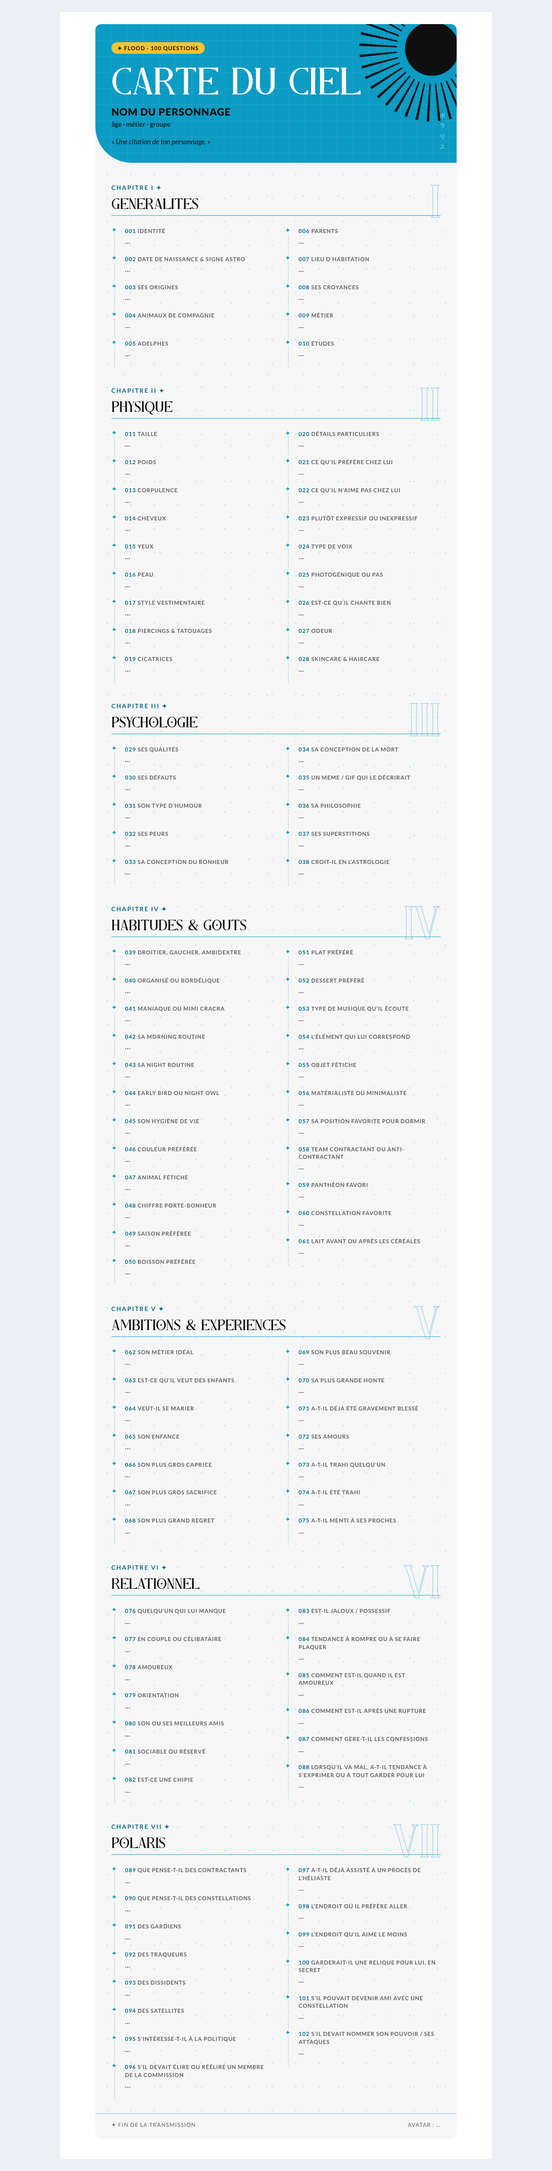
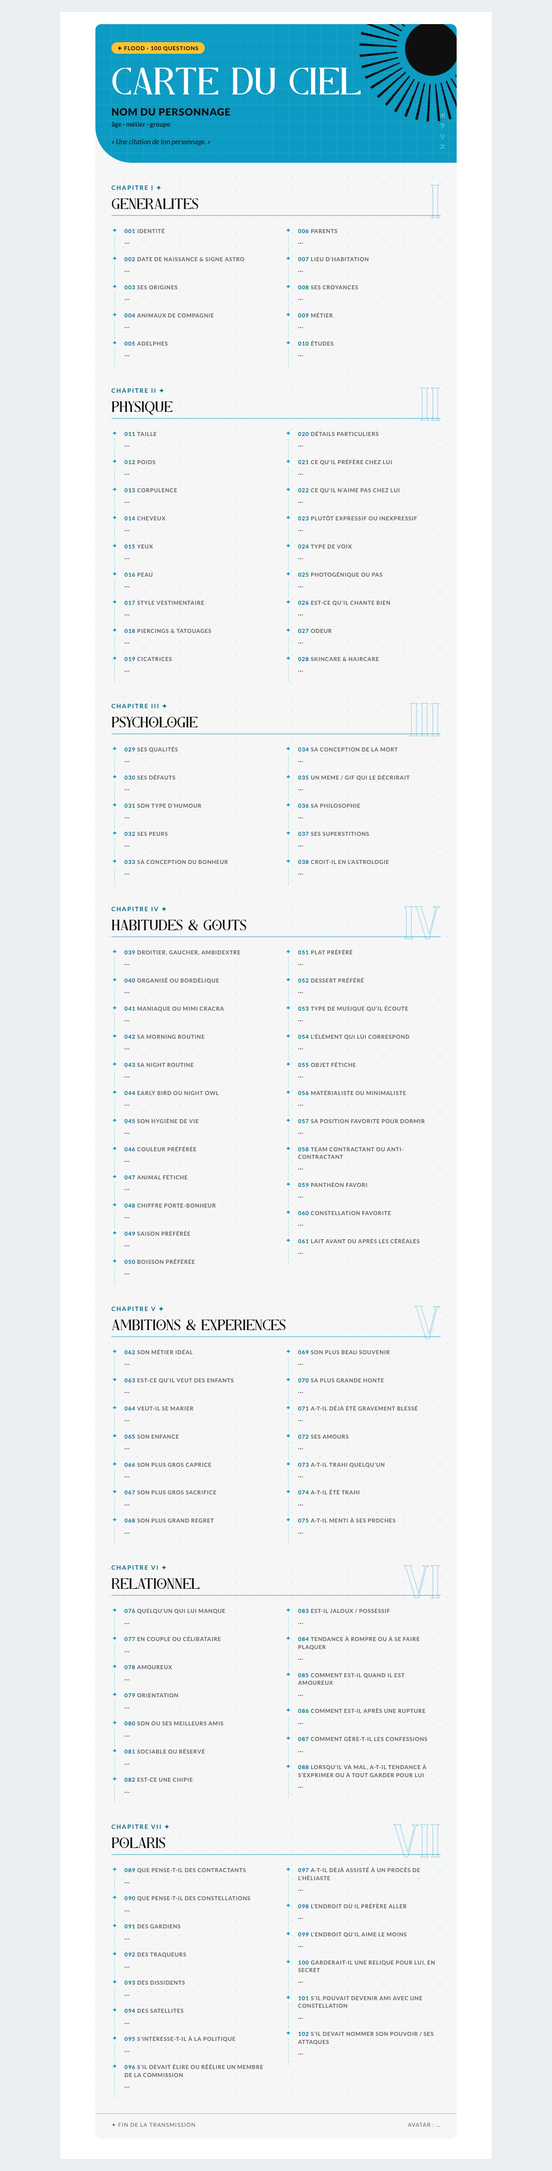
100 questions : CSS en ASCII et motif de fond régulier
Forumactif change ✦ en &#10022; dans le <style>, ce qui cassait les
étoiles, les numéros et le fond. Étoiles en \2726, trait pointillé tracé
à part, une seule grille de points.

Claude-Session: https://claude.ai/code/session_011pSGN7GDA4GAWyp28Daouk

diff --git a/animations/100-questions/annonce.html b/animations/100-questions/annonce.html
@@ -9,5 +9,5 @@ On vous propose de passer votre personnage au crible : son physique, ses petites
 &#10022; Colle le code dans une réponse à ce sujet
 &#10022; Remplace chaque « … » par ta réponse, sur la même ligne
 &#10022; Complète le nom, les infos, la citation et l’avatar en bas
-<textarea readonly class="bg-white dark:bg-main-black text-main-black dark:text-main-white" style="display:block;width:100%;height:240px;box-sizing:border-box;margin-top:8px;padding:12px;border:0;border-radius:4px;font:12px/1.45 ui-monospace,Menlo,Consolas,monospace;resize:vertical">&lt;div class="q100"&gt;&lt;div class="q100-head"&gt;&lt;div class="q100-sun"&gt;&lt;/div&gt;&lt;span class="q100-jp"&gt;ポラリス&lt;/span&gt;&lt;p class="q100-kicker"&gt;✦ Flood · 100 questions&lt;/p&gt;&lt;p class="q100-title"&gt;Carte du ciel&lt;/p&gt;&lt;p class="q100-name"&gt;Nom du personnage&lt;/p&gt;&lt;p class="q100-info"&gt;âge · métier · groupe&lt;/p&gt;&lt;p class="q100-quote"&gt;« Une citation de ton personnage. »&lt;/p&gt;&lt;/div&gt;&lt;div class="q100-body"&gt;&#13;&lt;div class="q100-ch"&gt;&lt;div class="q100-h"&gt;Généralités&lt;/div&gt;&lt;div class="q100-qs"&gt;&#13;&lt;p&gt;&lt;b&gt;Identité&lt;/b&gt;…&lt;/p&gt;&#13;&lt;p&gt;&lt;b&gt;Date de naissance &amp; signe astro&lt;/b&gt;…&lt;/p&gt;&#13;&lt;p&gt;&lt;b&gt;Ses origines&lt;/b&gt;…&lt;/p&gt;&#13;&lt;p&gt;&lt;b&gt;Animaux de compagnie&lt;/b&gt;…&lt;/p&gt;&#13;&lt;p&gt;&lt;b&gt;Adelphes&lt;/b&gt;…&lt;/p&gt;&#13;&lt;p&gt;&lt;b&gt;Parents&lt;/b&gt;…&lt;/p&gt;&#13;&lt;p&gt;&lt;b&gt;Lieu d’habitation&lt;/b&gt;…&lt;/p&gt;&#13;&lt;p&gt;&lt;b&gt;Ses croyances&lt;/b&gt;…&lt;/p&gt;&#13;&lt;p&gt;&lt;b&gt;Métier&lt;/b&gt;…&lt;/p&gt;&#13;&lt;p&gt;&lt;b&gt;Études&lt;/b&gt;…&lt;/p&gt;&#13;&lt;/div&gt;&lt;/div&gt;&#13;&lt;div class="q100-ch"&gt;&lt;div class="q100-h"&gt;Physique&lt;/div&gt;&lt;div class="q100-qs"&gt;&#13;&lt;p&gt;&lt;b&gt;Taille&lt;/b&gt;…&lt;/p&gt;&#13;&lt;p&gt;&lt;b&gt;Poids&lt;/b&gt;…&lt;/p&gt;&#13;&lt;p&gt;&lt;b&gt;Corpulence&lt;/b&gt;…&lt;/p&gt;&#13;&lt;p&gt;&lt;b&gt;Cheveux&lt;/b&gt;…&lt;/p&gt;&#13;&lt;p&gt;&lt;b&gt;Yeux&lt;/b&gt;…&lt;/p&gt;&#13;&lt;p&gt;&lt;b&gt;Peau&lt;/b&gt;…&lt;/p&gt;&#13;&lt;p&gt;&lt;b&gt;Style vestimentaire&lt;/b&gt;…&lt;/p&gt;&#13;&lt;p&gt;&lt;b&gt;Piercings &amp; tatouages&lt;/b&gt;…&lt;/p&gt;&#13;&lt;p&gt;&lt;b&gt;Cicatrices&lt;/b&gt;…&lt;/p&gt;&#13;&lt;p&gt;&lt;b&gt;Détails particuliers&lt;/b&gt;…&lt;/p&gt;&#13;&lt;p&gt;&lt;b&gt;Ce qu’il préfère chez lui&lt;/b&gt;…&lt;/p&gt;&#13;&lt;p&gt;&lt;b&gt;Ce qu’il n’aime pas chez lui&lt;/b&gt;…&lt;/p&gt;&#13;&lt;p&gt;&lt;b&gt;Plutôt expressif ou inexpressif&lt;/b&gt;…&lt;/p&gt;&#13;&lt;p&gt;&lt;b&gt;Type de voix&lt;/b&gt;…&lt;/p&gt;&#13;&lt;p&gt;&lt;b&gt;Photogénique ou pas&lt;/b&gt;…&lt;/p&gt;&#13;&lt;p&gt;&lt;b&gt;Est-ce qu’il chante bien&lt;/b&gt;…&lt;/p&gt;&#13;&lt;p&gt;&lt;b&gt;Odeur&lt;/b&gt;…&lt;/p&gt;&#13;&lt;p&gt;&lt;b&gt;Skincare &amp; haircare&lt;/b&gt;…&lt;/p&gt;&#13;&lt;/div&gt;&lt;/div&gt;&#13;&lt;div class="q100-ch"&gt;&lt;div class="q100-h"&gt;Psychologie&lt;/div&gt;&lt;div class="q100-qs"&gt;&#13;&lt;p&gt;&lt;b&gt;Ses qualités&lt;/b&gt;…&lt;/p&gt;&#13;&lt;p&gt;&lt;b&gt;Ses défauts&lt;/b&gt;…&lt;/p&gt;&#13;&lt;p&gt;&lt;b&gt;Son type d’humour&lt;/b&gt;…&lt;/p&gt;&#13;&lt;p&gt;&lt;b&gt;Ses peurs&lt;/b&gt;…&lt;/p&gt;&#13;&lt;p&gt;&lt;b&gt;Sa conception du bonheur&lt;/b&gt;…&lt;/p&gt;&#13;&lt;p&gt;&lt;b&gt;Sa conception de la mort&lt;/b&gt;…&lt;/p&gt;&#13;&lt;p&gt;&lt;b&gt;Un meme / gif qui le décrirait&lt;/b&gt;…&lt;/p&gt;&#13;&lt;p&gt;&lt;b&gt;Sa philosophie&lt;/b&gt;…&lt;/p&gt;&#13;&lt;p&gt;&lt;b&gt;Ses superstitions&lt;/b&gt;…&lt;/p&gt;&#13;&lt;p&gt;&lt;b&gt;Croit-il en l’astrologie&lt;/b&gt;…&lt;/p&gt;&#13;&lt;/div&gt;&lt;/div&gt;&#13;&lt;div class="q100-ch"&gt;&lt;div class="q100-h"&gt;Habitudes &amp; goûts&lt;/div&gt;&lt;div class="q100-qs"&gt;&#13;&lt;p&gt;&lt;b&gt;Droitier, gaucher, ambidextre&lt;/b&gt;…&lt;/p&gt;&#13;&lt;p&gt;&lt;b&gt;Organisé ou bordélique&lt;/b&gt;…&lt;/p&gt;&#13;&lt;p&gt;&lt;b&gt;Maniaque ou mimi cracra&lt;/b&gt;…&lt;/p&gt;&#13;&lt;p&gt;&lt;b&gt;Sa morning routine&lt;/b&gt;…&lt;/p&gt;&#13;&lt;p&gt;&lt;b&gt;Sa night routine&lt;/b&gt;…&lt;/p&gt;&#13;&lt;p&gt;&lt;b&gt;Early bird ou night owl&lt;/b&gt;…&lt;/p&gt;&#13;&lt;p&gt;&lt;b&gt;Son hygiène de vie&lt;/b&gt;…&lt;/p&gt;&#13;&lt;p&gt;&lt;b&gt;Couleur préférée&lt;/b&gt;…&lt;/p&gt;&#13;&lt;p&gt;&lt;b&gt;Animal fétiche&lt;/b&gt;…&lt;/p&gt;&#13;&lt;p&gt;&lt;b&gt;Chiffre porte-bonheur&lt;/b&gt;…&lt;/p&gt;&#13;&lt;p&gt;&lt;b&gt;Saison préférée&lt;/b&gt;…&lt;/p&gt;&#13;&lt;p&gt;&lt;b&gt;Boisson préférée&lt;/b&gt;…&lt;/p&gt;&#13;&lt;p&gt;&lt;b&gt;Plat préféré&lt;/b&gt;…&lt;/p&gt;&#13;&lt;p&gt;&lt;b&gt;Dessert préféré&lt;/b&gt;…&lt;/p&gt;&#13;&lt;p&gt;&lt;b&gt;Type de musique qu’il écoute&lt;/b&gt;…&lt;/p&gt;&#13;&lt;p&gt;&lt;b&gt;L’élément qui lui correspond&lt;/b&gt;…&lt;/p&gt;&#13;&lt;p&gt;&lt;b&gt;Objet fétiche&lt;/b&gt;…&lt;/p&gt;&#13;&lt;p&gt;&lt;b&gt;Matérialiste ou minimaliste&lt;/b&gt;…&lt;/p&gt;&#13;&lt;p&gt;&lt;b&gt;Sa position favorite pour dormir&lt;/b&gt;…&lt;/p&gt;&#13;&lt;p&gt;&lt;b&gt;Team contractant ou anti-contractant&lt;/b&gt;…&lt;/p&gt;&#13;&lt;p&gt;&lt;b&gt;Panthéon favori&lt;/b&gt;…&lt;/p&gt;&#13;&lt;p&gt;&lt;b&gt;Constellation favorite&lt;/b&gt;…&lt;/p&gt;&#13;&lt;p&gt;&lt;b&gt;Lait avant ou après les céréales&lt;/b&gt;…&lt;/p&gt;&#13;&lt;/div&gt;&lt;/div&gt;&#13;&lt;div class="q100-ch"&gt;&lt;div class="q100-h"&gt;Ambitions &amp; expériences&lt;/div&gt;&lt;div class="q100-qs"&gt;&#13;&lt;p&gt;&lt;b&gt;Son métier idéal&lt;/b&gt;…&lt;/p&gt;&#13;&lt;p&gt;&lt;b&gt;Est-ce qu’il veut des enfants&lt;/b&gt;…&lt;/p&gt;&#13;&lt;p&gt;&lt;b&gt;Veut-il se marier&lt;/b&gt;…&lt;/p&gt;&#13;&lt;p&gt;&lt;b&gt;Son enfance&lt;/b&gt;…&lt;/p&gt;&#13;&lt;p&gt;&lt;b&gt;Son plus gros caprice&lt;/b&gt;…&lt;/p&gt;&#13;&lt;p&gt;&lt;b&gt;Son plus gros sacrifice&lt;/b&gt;…&lt;/p&gt;&#13;&lt;p&gt;&lt;b&gt;Son plus grand regret&lt;/b&gt;…&lt;/p&gt;&#13;&lt;p&gt;&lt;b&gt;Son plus beau souvenir&lt;/b&gt;…&lt;/p&gt;&#13;&lt;p&gt;&lt;b&gt;Sa plus grande honte&lt;/b&gt;…&lt;/p&gt;&#13;&lt;p&gt;&lt;b&gt;A-t-il déjà été gravement blessé&lt;/b&gt;…&lt;/p&gt;&#13;&lt;p&gt;&lt;b&gt;Ses amours&lt;/b&gt;…&lt;/p&gt;&#13;&lt;p&gt;&lt;b&gt;A-t-il trahi quelqu’un&lt;/b&gt;…&lt;/p&gt;&#13;&lt;p&gt;&lt;b&gt;A-t-il été trahi&lt;/b&gt;…&lt;/p&gt;&#13;&lt;p&gt;&lt;b&gt;A-t-il menti à ses proches&lt;/b&gt;…&lt;/p&gt;&#13;&lt;/div&gt;&lt;/div&gt;&#13;&lt;div class="q100-ch"&gt;&lt;div class="q100-h"&gt;Relationnel&lt;/div&gt;&lt;div class="q100-qs"&gt;&#13;&lt;p&gt;&lt;b&gt;Quelqu’un qui lui manque&lt;/b&gt;…&lt;/p&gt;&#13;&lt;p&gt;&lt;b&gt;En couple ou célibataire&lt;/b&gt;…&lt;/p&gt;&#13;&lt;p&gt;&lt;b&gt;Amoureux&lt;/b&gt;…&lt;/p&gt;&#13;&lt;p&gt;&lt;b&gt;Orientation&lt;/b&gt;…&lt;/p&gt;&#13;&lt;p&gt;&lt;b&gt;Son ou ses meilleurs amis&lt;/b&gt;…&lt;/p&gt;&#13;&lt;p&gt;&lt;b&gt;Sociable ou réservé&lt;/b&gt;…&lt;/p&gt;&#13;&lt;p&gt;&lt;b&gt;Est-ce une chipie&lt;/b&gt;…&lt;/p&gt;&#13;&lt;p&gt;&lt;b&gt;Est-il jaloux / possessif&lt;/b&gt;…&lt;/p&gt;&#13;&lt;p&gt;&lt;b&gt;Tendance à rompre ou à se faire plaquer&lt;/b&gt;…&lt;/p&gt;&#13;&lt;p&gt;&lt;b&gt;Comment est-il quand il est amoureux&lt;/b&gt;…&lt;/p&gt;&#13;&lt;p&gt;&lt;b&gt;Comment est-il après une rupture&lt;/b&gt;…&lt;/p&gt;&#13;&lt;p&gt;&lt;b&gt;Comment gère-t-il les confessions&lt;/b&gt;…&lt;/p&gt;&#13;&lt;p&gt;&lt;b&gt;Lorsqu’il va mal, a-t-il tendance à s’exprimer ou à tout garder pour lui&lt;/b&gt;…&lt;/p&gt;&#13;&lt;/div&gt;&lt;/div&gt;&#13;&lt;div class="q100-ch"&gt;&lt;div class="q100-h"&gt;Polaris&lt;/div&gt;&lt;div class="q100-qs"&gt;&#13;&lt;p&gt;&lt;b&gt;Que pense-t-il des contractants&lt;/b&gt;…&lt;/p&gt;&#13;&lt;p&gt;&lt;b&gt;Que pense-t-il des Constellations&lt;/b&gt;…&lt;/p&gt;&#13;&lt;p&gt;&lt;b&gt;Des Gardiens&lt;/b&gt;…&lt;/p&gt;&#13;&lt;p&gt;&lt;b&gt;Des Traqueurs&lt;/b&gt;…&lt;/p&gt;&#13;&lt;p&gt;&lt;b&gt;Des Dissidents&lt;/b&gt;…&lt;/p&gt;&#13;&lt;p&gt;&lt;b&gt;Des Satellites&lt;/b&gt;…&lt;/p&gt;&#13;&lt;p&gt;&lt;b&gt;S’intéresse-t-il à la politique&lt;/b&gt;…&lt;/p&gt;&#13;&lt;p&gt;&lt;b&gt;S’il devait élire ou réélire un membre de la Commission&lt;/b&gt;…&lt;/p&gt;&#13;&lt;p&gt;&lt;b&gt;A-t-il déjà assisté à un procès de l’Héliaste&lt;/b&gt;…&lt;/p&gt;&#13;&lt;p&gt;&lt;b&gt;L’endroit où il préfère aller&lt;/b&gt;…&lt;/p&gt;&#13;&lt;p&gt;&lt;b&gt;L’endroit qu’il aime le moins&lt;/b&gt;…&lt;/p&gt;&#13;&lt;p&gt;&lt;b&gt;Garderait-il une relique pour lui, en secret&lt;/b&gt;…&lt;/p&gt;&#13;&lt;p&gt;&lt;b&gt;S’il pouvait devenir ami avec une Constellation&lt;/b&gt;…&lt;/p&gt;&#13;&lt;p&gt;&lt;b&gt;S’il devait nommer son pouvoir / ses attaques&lt;/b&gt;…&lt;/p&gt;&#13;&lt;/div&gt;&lt;/div&gt;&#13;&lt;/div&gt;&lt;div class="q100-foot"&gt;&lt;span&gt;✦ Fin de la transmission&lt;/span&gt;&lt;span&gt;Avatar : …&lt;/span&gt;&lt;/div&gt;&lt;/div&gt;&#13;&lt;style&gt;.q100{--bg:#F6F6F6;--band:#0C9BC3;--sun:#0F0F0F;--ink:#0F0F0F;--muted:#646464;--accent:#086985;--star:#0C9BC3;--line:rgba(12,155,195,.45);--dot:rgba(12,155,195,.22);--onband:#0F0F0F;position:relative;max-width:720px;margin:0 auto;overflow:hidden;border-radius:12px;background:var(--bg);color:var(--ink);font-family:lato,sans-serif;font-size:14px;line-height:1.4;counter-reset:q100q q100c}[data-theme=dark] .q100{--bg:#1A1A1A;--band:#591696;--sun:#FCC430;--ink:#F6F6F6;--muted:#AFAFAF;--accent:#FCC430;--star:#FCC430;--line:rgba(167,113,217,.55);--dot:rgba(246,246,246,.16);--onband:#F6F6F6}.q100 br{display:none}.q100-ch p br{display:inline}.q100-head{position:relative;overflow:hidden;padding:36px 64px 32px 32px;border-radius:0 0 0 72px;background-color:var(--band);background-image:linear-gradient(rgba(255,255,255,.08) 1px,transparent 1px),linear-gradient(90deg,rgba(255,255,255,.08) 1px,transparent 1px);background-size:32px 32px;color:var(--onband)}.q100-sun{position:absolute;top:-96px;right:-96px;width:290px;height:290px;border-radius:50%;background:radial-gradient(circle,var(--sun) 0 26%,var(--band) 26.5% 34%,transparent 34.5%),repeating-conic-gradient(var(--sun) 0 2deg,transparent 2deg 9deg);animation:q100-spin 40s linear infinite}@keyframes q100-spin{to{transform:rotate(1turn)}}@media (prefers-reduced-motion:reduce){.q100-sun{animation:none}}.q100-jp{position:absolute;right:20px;bottom:22px;writing-mode:vertical-rl;font-size:12px;letter-spacing:8px;color:#fff;opacity:.6}.q100-head p{position:relative;margin:0}.q100-kicker{display:inline-block;padding:4px 12px;border-radius:32px;background:#FCC430;color:#0F0F0F;font-size:11px;font-weight:700;letter-spacing:1px;text-transform:uppercase}.q100-head .q100-title{margin-top:16px;font-family:motesar,serif;font-size:clamp(44px,10vw,76px);line-height:.88;text-transform:uppercase;color:#fff}.q100-head .q100-name{margin-top:18px;font-size:20px;font-weight:900;letter-spacing:1px;text-transform:uppercase}.q100-head .q100-info{margin-top:2px;font-size:13px;font-weight:700;opacity:.85}.q100-head .q100-quote{max-width:420px;margin-top:16px;font-style:italic}.q100-body{padding:4px 32px 28px;background-image:radial-gradient(var(--dot) 1px,transparent 1.6px),radial-gradient(var(--dot) 1px,transparent 1.6px);background-size:47px 47px,71px 71px;background-position:0 0,23px 31px}.q100-ch{padding-top:40px;counter-increment:q100c}.q100-qs{columns:2 240px;column-gap:36px}.q100-h{position:relative;margin:0 0 22px;padding-bottom:10px;border-bottom:2px solid var(--line);font-family:motesar,serif;font-size:30px;line-height:1;text-transform:uppercase}.q100-h:before{content:"Chapitre " counter(q100c,upper-roman) "  ✦";display:block;margin-bottom:8px;font-family:lato,sans-serif;font-size:12px;font-weight:700;letter-spacing:2px;color:var(--accent)}.q100-h:after{content:counter(q100c,upper-roman);position:absolute;right:0;bottom:-4px;font-size:92px;line-height:.8;color:transparent;-webkit-text-stroke:1px var(--line);pointer-events:none}.q100-ch p{position:relative;margin:0 0 0 6px;padding:0 0 18px 20px;border-left:1px dashed var(--line);break-inside:avoid;counter-increment:q100q}.q100-ch p:before{content:"✦";position:absolute;left:-7px;top:-1px;font-size:13px;line-height:1;color:var(--star);background:var(--bg)}.q100-ch p b{display:block;margin-bottom:3px;font-size:11px;font-weight:700;letter-spacing:.8px;text-transform:uppercase;color:var(--muted)}.q100-ch p b:before{content:counter(q100q,q100-pad) "  ";color:var(--accent);letter-spacing:1px}@counter-style q100-pad{system:extends decimal;pad:3 "0"}.q100-foot{display:flex;flex-wrap:wrap;justify-content:space-between;gap:6px 16px;padding:14px 32px 20px;border-top:1px solid var(--line);font-size:11px;letter-spacing:1px;text-transform:uppercase;color:var(--muted)}@media (max-width:600px){.q100-head{padding:28px 48px 26px 20px;border-radius:0 0 0 48px}.q100-sun{top:-70px;right:-70px;width:180px;height:180px}.q100-body{padding:0 20px 24px}.q100-foot{padding:12px 20px 18px}}&lt;/style&gt;</textarea></template>
+<textarea readonly class="bg-white dark:bg-main-black text-main-black dark:text-main-white" style="display:block;width:100%;height:240px;box-sizing:border-box;margin-top:8px;padding:12px;border:0;border-radius:4px;font:12px/1.45 ui-monospace,Menlo,Consolas,monospace;resize:vertical">&lt;div class="q100"&gt;&lt;div class="q100-head"&gt;&lt;div class="q100-sun"&gt;&lt;/div&gt;&lt;span class="q100-jp"&gt;ポラリス&lt;/span&gt;&lt;p class="q100-kicker"&gt;✦ Flood · 100 questions&lt;/p&gt;&lt;p class="q100-title"&gt;Carte du ciel&lt;/p&gt;&lt;p class="q100-name"&gt;Nom du personnage&lt;/p&gt;&lt;p class="q100-info"&gt;âge · métier · groupe&lt;/p&gt;&lt;p class="q100-quote"&gt;« Une citation de ton personnage. »&lt;/p&gt;&lt;/div&gt;&lt;div class="q100-body"&gt;&#13;&lt;div class="q100-ch"&gt;&lt;div class="q100-h"&gt;Généralités&lt;/div&gt;&lt;div class="q100-qs"&gt;&#13;&lt;p&gt;&lt;b&gt;Identité&lt;/b&gt;…&lt;/p&gt;&#13;&lt;p&gt;&lt;b&gt;Date de naissance &amp; signe astro&lt;/b&gt;…&lt;/p&gt;&#13;&lt;p&gt;&lt;b&gt;Ses origines&lt;/b&gt;…&lt;/p&gt;&#13;&lt;p&gt;&lt;b&gt;Animaux de compagnie&lt;/b&gt;…&lt;/p&gt;&#13;&lt;p&gt;&lt;b&gt;Adelphes&lt;/b&gt;…&lt;/p&gt;&#13;&lt;p&gt;&lt;b&gt;Parents&lt;/b&gt;…&lt;/p&gt;&#13;&lt;p&gt;&lt;b&gt;Lieu d’habitation&lt;/b&gt;…&lt;/p&gt;&#13;&lt;p&gt;&lt;b&gt;Ses croyances&lt;/b&gt;…&lt;/p&gt;&#13;&lt;p&gt;&lt;b&gt;Métier&lt;/b&gt;…&lt;/p&gt;&#13;&lt;p&gt;&lt;b&gt;Études&lt;/b&gt;…&lt;/p&gt;&#13;&lt;/div&gt;&lt;/div&gt;&#13;&lt;div class="q100-ch"&gt;&lt;div class="q100-h"&gt;Physique&lt;/div&gt;&lt;div class="q100-qs"&gt;&#13;&lt;p&gt;&lt;b&gt;Taille&lt;/b&gt;…&lt;/p&gt;&#13;&lt;p&gt;&lt;b&gt;Poids&lt;/b&gt;…&lt;/p&gt;&#13;&lt;p&gt;&lt;b&gt;Corpulence&lt;/b&gt;…&lt;/p&gt;&#13;&lt;p&gt;&lt;b&gt;Cheveux&lt;/b&gt;…&lt;/p&gt;&#13;&lt;p&gt;&lt;b&gt;Yeux&lt;/b&gt;…&lt;/p&gt;&#13;&lt;p&gt;&lt;b&gt;Peau&lt;/b&gt;…&lt;/p&gt;&#13;&lt;p&gt;&lt;b&gt;Style vestimentaire&lt;/b&gt;…&lt;/p&gt;&#13;&lt;p&gt;&lt;b&gt;Piercings &amp; tatouages&lt;/b&gt;…&lt;/p&gt;&#13;&lt;p&gt;&lt;b&gt;Cicatrices&lt;/b&gt;…&lt;/p&gt;&#13;&lt;p&gt;&lt;b&gt;Détails particuliers&lt;/b&gt;…&lt;/p&gt;&#13;&lt;p&gt;&lt;b&gt;Ce qu’il préfère chez lui&lt;/b&gt;…&lt;/p&gt;&#13;&lt;p&gt;&lt;b&gt;Ce qu’il n’aime pas chez lui&lt;/b&gt;…&lt;/p&gt;&#13;&lt;p&gt;&lt;b&gt;Plutôt expressif ou inexpressif&lt;/b&gt;…&lt;/p&gt;&#13;&lt;p&gt;&lt;b&gt;Type de voix&lt;/b&gt;…&lt;/p&gt;&#13;&lt;p&gt;&lt;b&gt;Photogénique ou pas&lt;/b&gt;…&lt;/p&gt;&#13;&lt;p&gt;&lt;b&gt;Est-ce qu’il chante bien&lt;/b&gt;…&lt;/p&gt;&#13;&lt;p&gt;&lt;b&gt;Odeur&lt;/b&gt;…&lt;/p&gt;&#13;&lt;p&gt;&lt;b&gt;Skincare &amp; haircare&lt;/b&gt;…&lt;/p&gt;&#13;&lt;/div&gt;&lt;/div&gt;&#13;&lt;div class="q100-ch"&gt;&lt;div class="q100-h"&gt;Psychologie&lt;/div&gt;&lt;div class="q100-qs"&gt;&#13;&lt;p&gt;&lt;b&gt;Ses qualités&lt;/b&gt;…&lt;/p&gt;&#13;&lt;p&gt;&lt;b&gt;Ses défauts&lt;/b&gt;…&lt;/p&gt;&#13;&lt;p&gt;&lt;b&gt;Son type d’humour&lt;/b&gt;…&lt;/p&gt;&#13;&lt;p&gt;&lt;b&gt;Ses peurs&lt;/b&gt;…&lt;/p&gt;&#13;&lt;p&gt;&lt;b&gt;Sa conception du bonheur&lt;/b&gt;…&lt;/p&gt;&#13;&lt;p&gt;&lt;b&gt;Sa conception de la mort&lt;/b&gt;…&lt;/p&gt;&#13;&lt;p&gt;&lt;b&gt;Un meme / gif qui le décrirait&lt;/b&gt;…&lt;/p&gt;&#13;&lt;p&gt;&lt;b&gt;Sa philosophie&lt;/b&gt;…&lt;/p&gt;&#13;&lt;p&gt;&lt;b&gt;Ses superstitions&lt;/b&gt;…&lt;/p&gt;&#13;&lt;p&gt;&lt;b&gt;Croit-il en l’astrologie&lt;/b&gt;…&lt;/p&gt;&#13;&lt;/div&gt;&lt;/div&gt;&#13;&lt;div class="q100-ch"&gt;&lt;div class="q100-h"&gt;Habitudes &amp; goûts&lt;/div&gt;&lt;div class="q100-qs"&gt;&#13;&lt;p&gt;&lt;b&gt;Droitier, gaucher, ambidextre&lt;/b&gt;…&lt;/p&gt;&#13;&lt;p&gt;&lt;b&gt;Organisé ou bordélique&lt;/b&gt;…&lt;/p&gt;&#13;&lt;p&gt;&lt;b&gt;Maniaque ou mimi cracra&lt;/b&gt;…&lt;/p&gt;&#13;&lt;p&gt;&lt;b&gt;Sa morning routine&lt;/b&gt;…&lt;/p&gt;&#13;&lt;p&gt;&lt;b&gt;Sa night routine&lt;/b&gt;…&lt;/p&gt;&#13;&lt;p&gt;&lt;b&gt;Early bird ou night owl&lt;/b&gt;…&lt;/p&gt;&#13;&lt;p&gt;&lt;b&gt;Son hygiène de vie&lt;/b&gt;…&lt;/p&gt;&#13;&lt;p&gt;&lt;b&gt;Couleur préférée&lt;/b&gt;…&lt;/p&gt;&#13;&lt;p&gt;&lt;b&gt;Animal fétiche&lt;/b&gt;…&lt;/p&gt;&#13;&lt;p&gt;&lt;b&gt;Chiffre porte-bonheur&lt;/b&gt;…&lt;/p&gt;&#13;&lt;p&gt;&lt;b&gt;Saison préférée&lt;/b&gt;…&lt;/p&gt;&#13;&lt;p&gt;&lt;b&gt;Boisson préférée&lt;/b&gt;…&lt;/p&gt;&#13;&lt;p&gt;&lt;b&gt;Plat préféré&lt;/b&gt;…&lt;/p&gt;&#13;&lt;p&gt;&lt;b&gt;Dessert préféré&lt;/b&gt;…&lt;/p&gt;&#13;&lt;p&gt;&lt;b&gt;Type de musique qu’il écoute&lt;/b&gt;…&lt;/p&gt;&#13;&lt;p&gt;&lt;b&gt;L’élément qui lui correspond&lt;/b&gt;…&lt;/p&gt;&#13;&lt;p&gt;&lt;b&gt;Objet fétiche&lt;/b&gt;…&lt;/p&gt;&#13;&lt;p&gt;&lt;b&gt;Matérialiste ou minimaliste&lt;/b&gt;…&lt;/p&gt;&#13;&lt;p&gt;&lt;b&gt;Sa position favorite pour dormir&lt;/b&gt;…&lt;/p&gt;&#13;&lt;p&gt;&lt;b&gt;Team contractant ou anti-contractant&lt;/b&gt;…&lt;/p&gt;&#13;&lt;p&gt;&lt;b&gt;Panthéon favori&lt;/b&gt;…&lt;/p&gt;&#13;&lt;p&gt;&lt;b&gt;Constellation favorite&lt;/b&gt;…&lt;/p&gt;&#13;&lt;p&gt;&lt;b&gt;Lait avant ou après les céréales&lt;/b&gt;…&lt;/p&gt;&#13;&lt;/div&gt;&lt;/div&gt;&#13;&lt;div class="q100-ch"&gt;&lt;div class="q100-h"&gt;Ambitions &amp; expériences&lt;/div&gt;&lt;div class="q100-qs"&gt;&#13;&lt;p&gt;&lt;b&gt;Son métier idéal&lt;/b&gt;…&lt;/p&gt;&#13;&lt;p&gt;&lt;b&gt;Est-ce qu’il veut des enfants&lt;/b&gt;…&lt;/p&gt;&#13;&lt;p&gt;&lt;b&gt;Veut-il se marier&lt;/b&gt;…&lt;/p&gt;&#13;&lt;p&gt;&lt;b&gt;Son enfance&lt;/b&gt;…&lt;/p&gt;&#13;&lt;p&gt;&lt;b&gt;Son plus gros caprice&lt;/b&gt;…&lt;/p&gt;&#13;&lt;p&gt;&lt;b&gt;Son plus gros sacrifice&lt;/b&gt;…&lt;/p&gt;&#13;&lt;p&gt;&lt;b&gt;Son plus grand regret&lt;/b&gt;…&lt;/p&gt;&#13;&lt;p&gt;&lt;b&gt;Son plus beau souvenir&lt;/b&gt;…&lt;/p&gt;&#13;&lt;p&gt;&lt;b&gt;Sa plus grande honte&lt;/b&gt;…&lt;/p&gt;&#13;&lt;p&gt;&lt;b&gt;A-t-il déjà été gravement blessé&lt;/b&gt;…&lt;/p&gt;&#13;&lt;p&gt;&lt;b&gt;Ses amours&lt;/b&gt;…&lt;/p&gt;&#13;&lt;p&gt;&lt;b&gt;A-t-il trahi quelqu’un&lt;/b&gt;…&lt;/p&gt;&#13;&lt;p&gt;&lt;b&gt;A-t-il été trahi&lt;/b&gt;…&lt;/p&gt;&#13;&lt;p&gt;&lt;b&gt;A-t-il menti à ses proches&lt;/b&gt;…&lt;/p&gt;&#13;&lt;/div&gt;&lt;/div&gt;&#13;&lt;div class="q100-ch"&gt;&lt;div class="q100-h"&gt;Relationnel&lt;/div&gt;&lt;div class="q100-qs"&gt;&#13;&lt;p&gt;&lt;b&gt;Quelqu’un qui lui manque&lt;/b&gt;…&lt;/p&gt;&#13;&lt;p&gt;&lt;b&gt;En couple ou célibataire&lt;/b&gt;…&lt;/p&gt;&#13;&lt;p&gt;&lt;b&gt;Amoureux&lt;/b&gt;…&lt;/p&gt;&#13;&lt;p&gt;&lt;b&gt;Orientation&lt;/b&gt;…&lt;/p&gt;&#13;&lt;p&gt;&lt;b&gt;Son ou ses meilleurs amis&lt;/b&gt;…&lt;/p&gt;&#13;&lt;p&gt;&lt;b&gt;Sociable ou réservé&lt;/b&gt;…&lt;/p&gt;&#13;&lt;p&gt;&lt;b&gt;Est-ce une chipie&lt;/b&gt;…&lt;/p&gt;&#13;&lt;p&gt;&lt;b&gt;Est-il jaloux / possessif&lt;/b&gt;…&lt;/p&gt;&#13;&lt;p&gt;&lt;b&gt;Tendance à rompre ou à se faire plaquer&lt;/b&gt;…&lt;/p&gt;&#13;&lt;p&gt;&lt;b&gt;Comment est-il quand il est amoureux&lt;/b&gt;…&lt;/p&gt;&#13;&lt;p&gt;&lt;b&gt;Comment est-il après une rupture&lt;/b&gt;…&lt;/p&gt;&#13;&lt;p&gt;&lt;b&gt;Comment gère-t-il les confessions&lt;/b&gt;…&lt;/p&gt;&#13;&lt;p&gt;&lt;b&gt;Lorsqu’il va mal, a-t-il tendance à s’exprimer ou à tout garder pour lui&lt;/b&gt;…&lt;/p&gt;&#13;&lt;/div&gt;&lt;/div&gt;&#13;&lt;div class="q100-ch"&gt;&lt;div class="q100-h"&gt;Polaris&lt;/div&gt;&lt;div class="q100-qs"&gt;&#13;&lt;p&gt;&lt;b&gt;Que pense-t-il des contractants&lt;/b&gt;…&lt;/p&gt;&#13;&lt;p&gt;&lt;b&gt;Que pense-t-il des Constellations&lt;/b&gt;…&lt;/p&gt;&#13;&lt;p&gt;&lt;b&gt;Des Gardiens&lt;/b&gt;…&lt;/p&gt;&#13;&lt;p&gt;&lt;b&gt;Des Traqueurs&lt;/b&gt;…&lt;/p&gt;&#13;&lt;p&gt;&lt;b&gt;Des Dissidents&lt;/b&gt;…&lt;/p&gt;&#13;&lt;p&gt;&lt;b&gt;Des Satellites&lt;/b&gt;…&lt;/p&gt;&#13;&lt;p&gt;&lt;b&gt;S’intéresse-t-il à la politique&lt;/b&gt;…&lt;/p&gt;&#13;&lt;p&gt;&lt;b&gt;S’il devait élire ou réélire un membre de la Commission&lt;/b&gt;…&lt;/p&gt;&#13;&lt;p&gt;&lt;b&gt;A-t-il déjà assisté à un procès de l’Héliaste&lt;/b&gt;…&lt;/p&gt;&#13;&lt;p&gt;&lt;b&gt;L’endroit où il préfère aller&lt;/b&gt;…&lt;/p&gt;&#13;&lt;p&gt;&lt;b&gt;L’endroit qu’il aime le moins&lt;/b&gt;…&lt;/p&gt;&#13;&lt;p&gt;&lt;b&gt;Garderait-il une relique pour lui, en secret&lt;/b&gt;…&lt;/p&gt;&#13;&lt;p&gt;&lt;b&gt;S’il pouvait devenir ami avec une Constellation&lt;/b&gt;…&lt;/p&gt;&#13;&lt;p&gt;&lt;b&gt;S’il devait nommer son pouvoir / ses attaques&lt;/b&gt;…&lt;/p&gt;&#13;&lt;/div&gt;&lt;/div&gt;&#13;&lt;/div&gt;&lt;div class="q100-foot"&gt;&lt;span&gt;✦ Fin de la transmission&lt;/span&gt;&lt;span&gt;Avatar : …&lt;/span&gt;&lt;/div&gt;&lt;/div&gt;&#13;&lt;style&gt;.q100{--bg:#F6F6F6;--band:#0C9BC3;--sun:#0F0F0F;--ink:#0F0F0F;--muted:#646464;--accent:#086985;--star:#0C9BC3;--line:rgba(12,155,195,.45);--dot:rgba(12,155,195,.22);--onband:#0F0F0F;position:relative;max-width:720px;margin:0 auto;overflow:hidden;border-radius:12px;background:var(--bg);color:var(--ink);font-family:lato,sans-serif;font-size:14px;line-height:1.4;counter-reset:q100q q100c}[data-theme=dark] .q100{--bg:#1A1A1A;--band:#591696;--sun:#FCC430;--ink:#F6F6F6;--muted:#AFAFAF;--accent:#FCC430;--star:#FCC430;--line:rgba(167,113,217,.55);--dot:rgba(246,246,246,.16);--onband:#F6F6F6}.q100 br{display:none}.q100-ch p br{display:inline}.q100-head{position:relative;overflow:hidden;padding:36px 64px 32px 32px;border-radius:0 0 0 72px;background-color:var(--band);background-image:linear-gradient(rgba(255,255,255,.08) 1px,transparent 1px),linear-gradient(90deg,rgba(255,255,255,.08) 1px,transparent 1px);background-size:32px 32px;color:var(--onband)}.q100-sun{position:absolute;top:-96px;right:-96px;width:290px;height:290px;border-radius:50%;background:radial-gradient(circle,var(--sun) 0 26%,var(--band) 26.5% 34%,transparent 34.5%),repeating-conic-gradient(var(--sun) 0 2deg,transparent 2deg 9deg);animation:q100-spin 40s linear infinite}@keyframes q100-spin{to{transform:rotate(1turn)}}@media (prefers-reduced-motion:reduce){.q100-sun{animation:none}}.q100-jp{position:absolute;right:20px;bottom:22px;writing-mode:vertical-rl;font-size:12px;letter-spacing:8px;color:#fff;opacity:.6}.q100-head p{position:relative;margin:0}.q100-kicker{display:inline-block;padding:4px 12px;border-radius:32px;background:#FCC430;color:#0F0F0F;font-size:11px;font-weight:700;letter-spacing:1px;text-transform:uppercase}.q100-head .q100-title{margin-top:16px;font-family:motesar,serif;font-size:clamp(44px,10vw,76px);line-height:.88;text-transform:uppercase;color:#fff}.q100-head .q100-name{margin-top:18px;font-size:20px;font-weight:900;letter-spacing:1px;text-transform:uppercase}.q100-head .q100-info{margin-top:2px;font-size:13px;font-weight:700;opacity:.85}.q100-head .q100-quote{max-width:420px;margin-top:16px;font-style:italic}.q100-body{padding:4px 32px 28px;background-image:radial-gradient(circle,var(--dot) 1px,transparent 1.5px);background-size:28px 28px;background-position:14px 14px}.q100-ch{padding-top:40px;counter-increment:q100c}.q100-qs{columns:2 240px;column-gap:36px}.q100-h{position:relative;margin:0 0 22px;padding-bottom:10px;border-bottom:2px solid var(--line);font-family:motesar,serif;font-size:30px;line-height:1;text-transform:uppercase}.q100-h:before{content:"Chapitre " counter(q100c,upper-roman) "  \2726";display:block;margin-bottom:8px;font-family:lato,sans-serif;font-size:12px;font-weight:700;letter-spacing:2px;color:var(--accent)}.q100-h:after{content:counter(q100c,upper-roman);position:absolute;right:0;bottom:-4px;font-size:92px;line-height:.8;color:transparent;-webkit-text-stroke:1px var(--line);pointer-events:none}.q100-ch p{position:relative;margin:0;padding:0 0 18px 26px;break-inside:avoid;counter-increment:q100q}.q100-ch p:after{content:"";position:absolute;left:6px;top:17px;bottom:2px;border-left:1px dashed var(--line)}.q100-ch p:before{content:"\2726";position:absolute;left:0;top:0;width:13px;text-align:center;font-size:13px;line-height:1;color:var(--star)}.q100-ch p b{display:block;margin-bottom:3px;font-size:11px;font-weight:700;letter-spacing:.8px;text-transform:uppercase;color:var(--muted)}.q100-ch p b:before{content:counter(q100q,q100-pad) "  ";color:var(--accent);letter-spacing:1px}@counter-style q100-pad{system:extends decimal;pad:3 "0"}.q100-foot{display:flex;flex-wrap:wrap;justify-content:space-between;gap:6px 16px;padding:14px 32px 20px;border-top:1px solid var(--line);font-size:11px;letter-spacing:1px;text-transform:uppercase;color:var(--muted)}@media (max-width:600px){.q100-head{padding:28px 48px 26px 20px;border-radius:0 0 0 48px}.q100-sun{top:-70px;right:-70px;width:180px;height:180px}.q100-body{padding:0 20px 24px}.q100-foot{padding:12px 20px 18px}}&lt;/style&gt;</textarea></template>
 <template data-value="post:note"><div class="text-main-blue dark:text-secondary-light-purple mb-2">Informations importantes</div>&#10022; Un message par personnage, les multicomptes sont les bienvenus<br />&#10022; Pas besoin de tout remplir d’un coup : édite ton message au fur et à mesure<br />&#10022; Pas d’ordre de passage<br />&#10022; [Durée de l’animation / récompense éventuelle]</template></x-post-admin>

diff --git a/animations/100-questions/code-reponse.html b/animations/100-questions/code-reponse.html
@@ -116,4 +116,4 @@
 <p><b>S’il devait nommer son pouvoir / ses attaques</b>…</p>
 </div></div>
 </div><div class="q100-foot"><span>✦ Fin de la transmission</span><span>Avatar : …</span></div></div>
-<style>.q100{--bg:#F6F6F6;--band:#0C9BC3;--sun:#0F0F0F;--ink:#0F0F0F;--muted:#646464;--accent:#086985;--star:#0C9BC3;--line:rgba(12,155,195,.45);--dot:rgba(12,155,195,.22);--onband:#0F0F0F;position:relative;max-width:720px;margin:0 auto;overflow:hidden;border-radius:12px;background:var(--bg);color:var(--ink);font-family:lato,sans-serif;font-size:14px;line-height:1.4;counter-reset:q100q q100c}[data-theme=dark] .q100{--bg:#1A1A1A;--band:#591696;--sun:#FCC430;--ink:#F6F6F6;--muted:#AFAFAF;--accent:#FCC430;--star:#FCC430;--line:rgba(167,113,217,.55);--dot:rgba(246,246,246,.16);--onband:#F6F6F6}.q100 br{display:none}.q100-ch p br{display:inline}.q100-head{position:relative;overflow:hidden;padding:36px 64px 32px 32px;border-radius:0 0 0 72px;background-color:var(--band);background-image:linear-gradient(rgba(255,255,255,.08) 1px,transparent 1px),linear-gradient(90deg,rgba(255,255,255,.08) 1px,transparent 1px);background-size:32px 32px;color:var(--onband)}.q100-sun{position:absolute;top:-96px;right:-96px;width:290px;height:290px;border-radius:50%;background:radial-gradient(circle,var(--sun) 0 26%,var(--band) 26.5% 34%,transparent 34.5%),repeating-conic-gradient(var(--sun) 0 2deg,transparent 2deg 9deg);animation:q100-spin 40s linear infinite}@keyframes q100-spin{to{transform:rotate(1turn)}}@media (prefers-reduced-motion:reduce){.q100-sun{animation:none}}.q100-jp{position:absolute;right:20px;bottom:22px;writing-mode:vertical-rl;font-size:12px;letter-spacing:8px;color:#fff;opacity:.6}.q100-head p{position:relative;margin:0}.q100-kicker{display:inline-block;padding:4px 12px;border-radius:32px;background:#FCC430;color:#0F0F0F;font-size:11px;font-weight:700;letter-spacing:1px;text-transform:uppercase}.q100-head .q100-title{margin-top:16px;font-family:motesar,serif;font-size:clamp(44px,10vw,76px);line-height:.88;text-transform:uppercase;color:#fff}.q100-head .q100-name{margin-top:18px;font-size:20px;font-weight:900;letter-spacing:1px;text-transform:uppercase}.q100-head .q100-info{margin-top:2px;font-size:13px;font-weight:700;opacity:.85}.q100-head .q100-quote{max-width:420px;margin-top:16px;font-style:italic}.q100-body{padding:4px 32px 28px;background-image:radial-gradient(var(--dot) 1px,transparent 1.6px),radial-gradient(var(--dot) 1px,transparent 1.6px);background-size:47px 47px,71px 71px;background-position:0 0,23px 31px}.q100-ch{padding-top:40px;counter-increment:q100c}.q100-qs{columns:2 240px;column-gap:36px}.q100-h{position:relative;margin:0 0 22px;padding-bottom:10px;border-bottom:2px solid var(--line);font-family:motesar,serif;font-size:30px;line-height:1;text-transform:uppercase}.q100-h:before{content:"Chapitre " counter(q100c,upper-roman) "  ✦";display:block;margin-bottom:8px;font-family:lato,sans-serif;font-size:12px;font-weight:700;letter-spacing:2px;color:var(--accent)}.q100-h:after{content:counter(q100c,upper-roman);position:absolute;right:0;bottom:-4px;font-size:92px;line-height:.8;color:transparent;-webkit-text-stroke:1px var(--line);pointer-events:none}.q100-ch p{position:relative;margin:0 0 0 6px;padding:0 0 18px 20px;border-left:1px dashed var(--line);break-inside:avoid;counter-increment:q100q}.q100-ch p:before{content:"✦";position:absolute;left:-7px;top:-1px;font-size:13px;line-height:1;color:var(--star);background:var(--bg)}.q100-ch p b{display:block;margin-bottom:3px;font-size:11px;font-weight:700;letter-spacing:.8px;text-transform:uppercase;color:var(--muted)}.q100-ch p b:before{content:counter(q100q,q100-pad) "  ";color:var(--accent);letter-spacing:1px}@counter-style q100-pad{system:extends decimal;pad:3 "0"}.q100-foot{display:flex;flex-wrap:wrap;justify-content:space-between;gap:6px 16px;padding:14px 32px 20px;border-top:1px solid var(--line);font-size:11px;letter-spacing:1px;text-transform:uppercase;color:var(--muted)}@media (max-width:600px){.q100-head{padding:28px 48px 26px 20px;border-radius:0 0 0 48px}.q100-sun{top:-70px;right:-70px;width:180px;height:180px}.q100-body{padding:0 20px 24px}.q100-foot{padding:12px 20px 18px}}</style>
+<style>.q100{--bg:#F6F6F6;--band:#0C9BC3;--sun:#0F0F0F;--ink:#0F0F0F;--muted:#646464;--accent:#086985;--star:#0C9BC3;--line:rgba(12,155,195,.45);--dot:rgba(12,155,195,.22);--onband:#0F0F0F;position:relative;max-width:720px;margin:0 auto;overflow:hidden;border-radius:12px;background:var(--bg);color:var(--ink);font-family:lato,sans-serif;font-size:14px;line-height:1.4;counter-reset:q100q q100c}[data-theme=dark] .q100{--bg:#1A1A1A;--band:#591696;--sun:#FCC430;--ink:#F6F6F6;--muted:#AFAFAF;--accent:#FCC430;--star:#FCC430;--line:rgba(167,113,217,.55);--dot:rgba(246,246,246,.16);--onband:#F6F6F6}.q100 br{display:none}.q100-ch p br{display:inline}.q100-head{position:relative;overflow:hidden;padding:36px 64px 32px 32px;border-radius:0 0 0 72px;background-color:var(--band);background-image:linear-gradient(rgba(255,255,255,.08) 1px,transparent 1px),linear-gradient(90deg,rgba(255,255,255,.08) 1px,transparent 1px);background-size:32px 32px;color:var(--onband)}.q100-sun{position:absolute;top:-96px;right:-96px;width:290px;height:290px;border-radius:50%;background:radial-gradient(circle,var(--sun) 0 26%,var(--band) 26.5% 34%,transparent 34.5%),repeating-conic-gradient(var(--sun) 0 2deg,transparent 2deg 9deg);animation:q100-spin 40s linear infinite}@keyframes q100-spin{to{transform:rotate(1turn)}}@media (prefers-reduced-motion:reduce){.q100-sun{animation:none}}.q100-jp{position:absolute;right:20px;bottom:22px;writing-mode:vertical-rl;font-size:12px;letter-spacing:8px;color:#fff;opacity:.6}.q100-head p{position:relative;margin:0}.q100-kicker{display:inline-block;padding:4px 12px;border-radius:32px;background:#FCC430;color:#0F0F0F;font-size:11px;font-weight:700;letter-spacing:1px;text-transform:uppercase}.q100-head .q100-title{margin-top:16px;font-family:motesar,serif;font-size:clamp(44px,10vw,76px);line-height:.88;text-transform:uppercase;color:#fff}.q100-head .q100-name{margin-top:18px;font-size:20px;font-weight:900;letter-spacing:1px;text-transform:uppercase}.q100-head .q100-info{margin-top:2px;font-size:13px;font-weight:700;opacity:.85}.q100-head .q100-quote{max-width:420px;margin-top:16px;font-style:italic}.q100-body{padding:4px 32px 28px;background-image:radial-gradient(circle,var(--dot) 1px,transparent 1.5px);background-size:28px 28px;background-position:14px 14px}.q100-ch{padding-top:40px;counter-increment:q100c}.q100-qs{columns:2 240px;column-gap:36px}.q100-h{position:relative;margin:0 0 22px;padding-bottom:10px;border-bottom:2px solid var(--line);font-family:motesar,serif;font-size:30px;line-height:1;text-transform:uppercase}.q100-h:before{content:"Chapitre " counter(q100c,upper-roman) "  \2726";display:block;margin-bottom:8px;font-family:lato,sans-serif;font-size:12px;font-weight:700;letter-spacing:2px;color:var(--accent)}.q100-h:after{content:counter(q100c,upper-roman);position:absolute;right:0;bottom:-4px;font-size:92px;line-height:.8;color:transparent;-webkit-text-stroke:1px var(--line);pointer-events:none}.q100-ch p{position:relative;margin:0;padding:0 0 18px 26px;break-inside:avoid;counter-increment:q100q}.q100-ch p:after{content:"";position:absolute;left:6px;top:17px;bottom:2px;border-left:1px dashed var(--line)}.q100-ch p:before{content:"\2726";position:absolute;left:0;top:0;width:13px;text-align:center;font-size:13px;line-height:1;color:var(--star)}.q100-ch p b{display:block;margin-bottom:3px;font-size:11px;font-weight:700;letter-spacing:.8px;text-transform:uppercase;color:var(--muted)}.q100-ch p b:before{content:counter(q100q,q100-pad) "  ";color:var(--accent);letter-spacing:1px}@counter-style q100-pad{system:extends decimal;pad:3 "0"}.q100-foot{display:flex;flex-wrap:wrap;justify-content:space-between;gap:6px 16px;padding:14px 32px 20px;border-top:1px solid var(--line);font-size:11px;letter-spacing:1px;text-transform:uppercase;color:var(--muted)}@media (max-width:600px){.q100-head{padding:28px 48px 26px 20px;border-radius:0 0 0 48px}.q100-sun{top:-70px;right:-70px;width:180px;height:180px}.q100-body{padding:0 20px 24px}.q100-foot{padding:12px 20px 18px}}</style>

diff --git a/animations/100-questions/generer.py b/animations/100-questions/generer.py
@@ -77,14 +77,15 @@ CSS = """
 .q100-head .q100-name{margin-top:18px;font-size:20px;font-weight:900;letter-spacing:1px;text-transform:uppercase}
 .q100-head .q100-info{margin-top:2px;font-size:13px;font-weight:700;opacity:.85}
 .q100-head .q100-quote{max-width:420px;margin-top:16px;font-style:italic}
-.q100-body{padding:4px 32px 28px;background-image:radial-gradient(var(--dot) 1px,transparent 1.6px),radial-gradient(var(--dot) 1px,transparent 1.6px);background-size:47px 47px,71px 71px;background-position:0 0,23px 31px}
+.q100-body{padding:4px 32px 28px;background-image:radial-gradient(circle,var(--dot) 1px,transparent 1.5px);background-size:28px 28px;background-position:14px 14px}
 .q100-ch{padding-top:40px;counter-increment:q100c}
 .q100-qs{columns:2 240px;column-gap:36px}
 .q100-h{position:relative;margin:0 0 22px;padding-bottom:10px;border-bottom:2px solid var(--line);font-family:motesar,serif;font-size:30px;line-height:1;text-transform:uppercase}
-.q100-h:before{content:"Chapitre " counter(q100c,upper-roman) "  ✦";display:block;margin-bottom:8px;font-family:lato,sans-serif;font-size:12px;font-weight:700;letter-spacing:2px;color:var(--accent)}
+.q100-h:before{content:"Chapitre " counter(q100c,upper-roman) "  \\2726";display:block;margin-bottom:8px;font-family:lato,sans-serif;font-size:12px;font-weight:700;letter-spacing:2px;color:var(--accent)}
 .q100-h:after{content:counter(q100c,upper-roman);position:absolute;right:0;bottom:-4px;font-size:92px;line-height:.8;color:transparent;-webkit-text-stroke:1px var(--line);pointer-events:none}
-.q100-ch p{position:relative;margin:0 0 0 6px;padding:0 0 18px 20px;border-left:1px dashed var(--line);break-inside:avoid;counter-increment:q100q}
-.q100-ch p:before{content:"✦";position:absolute;left:-7px;top:-1px;font-size:13px;line-height:1;color:var(--star);background:var(--bg)}
+.q100-ch p{position:relative;margin:0;padding:0 0 18px 26px;break-inside:avoid;counter-increment:q100q}
+.q100-ch p:after{content:"";position:absolute;left:6px;top:17px;bottom:2px;border-left:1px dashed var(--line)}
+.q100-ch p:before{content:"\\2726";position:absolute;left:0;top:0;width:13px;text-align:center;font-size:13px;line-height:1;color:var(--star)}
 .q100-ch p b{display:block;margin-bottom:3px;font-size:11px;font-weight:700;letter-spacing:.8px;text-transform:uppercase;color:var(--muted)}
 .q100-ch p b:before{content:counter(q100q,q100-pad) "  ";color:var(--accent);letter-spacing:1px}
 @counter-style q100-pad{system:extends decimal;pad:3 "0"}
@@ -94,6 +95,8 @@ CSS = """
 css = "".join(l.strip() for l in CSS.strip().splitlines())
 for bad in ("[b]", "[i]", "[u]", "[s]", "[tw]", "\n"):
     assert bad not in css.lower(), bad
+# Forumactif change les caractères non ASCII en &#…; même dans <style> : CSS en ASCII seulement.
+assert css.isascii(), [c for c in css if not c.isascii()]
 
 lines = []
 w = lines.append

diff --git a/animations/100-questions/README.md b/animations/100-questions/README.md
@@ -33,6 +33,7 @@ Deux colonnes sur ordinateur, une sur mobile.
 - Le `<style>` tient sur **une seule ligne** : Forumactif change chaque retour à la ligne en
   `<br />`, ce qui casserait le CSS. Pour la même raison, le CSS masque les `<br />` placés entre
   les blocs (`.q100 br{display:none}`) et ne les garde que dans les réponses.
+- Forumactif change les caractères spéciaux (✦, accents…) en `&#…;`, même dans `<style>`, où ils ne sont pas décodés : le CSS est donc **uniquement en ASCII** (`"\\2726"` pour ✦, vérifié par le script).
 - Le script du forum (`String.f2p`) remplace `[b]`, `[i]`, `[u]`, `[s]` et `[tw]` : le CSS n'en
   contient pas (le script le vérifie).
 - Testé avec les vrais scripts du forum (`library` + `components`) en jour, en nuit et sur mobile.
